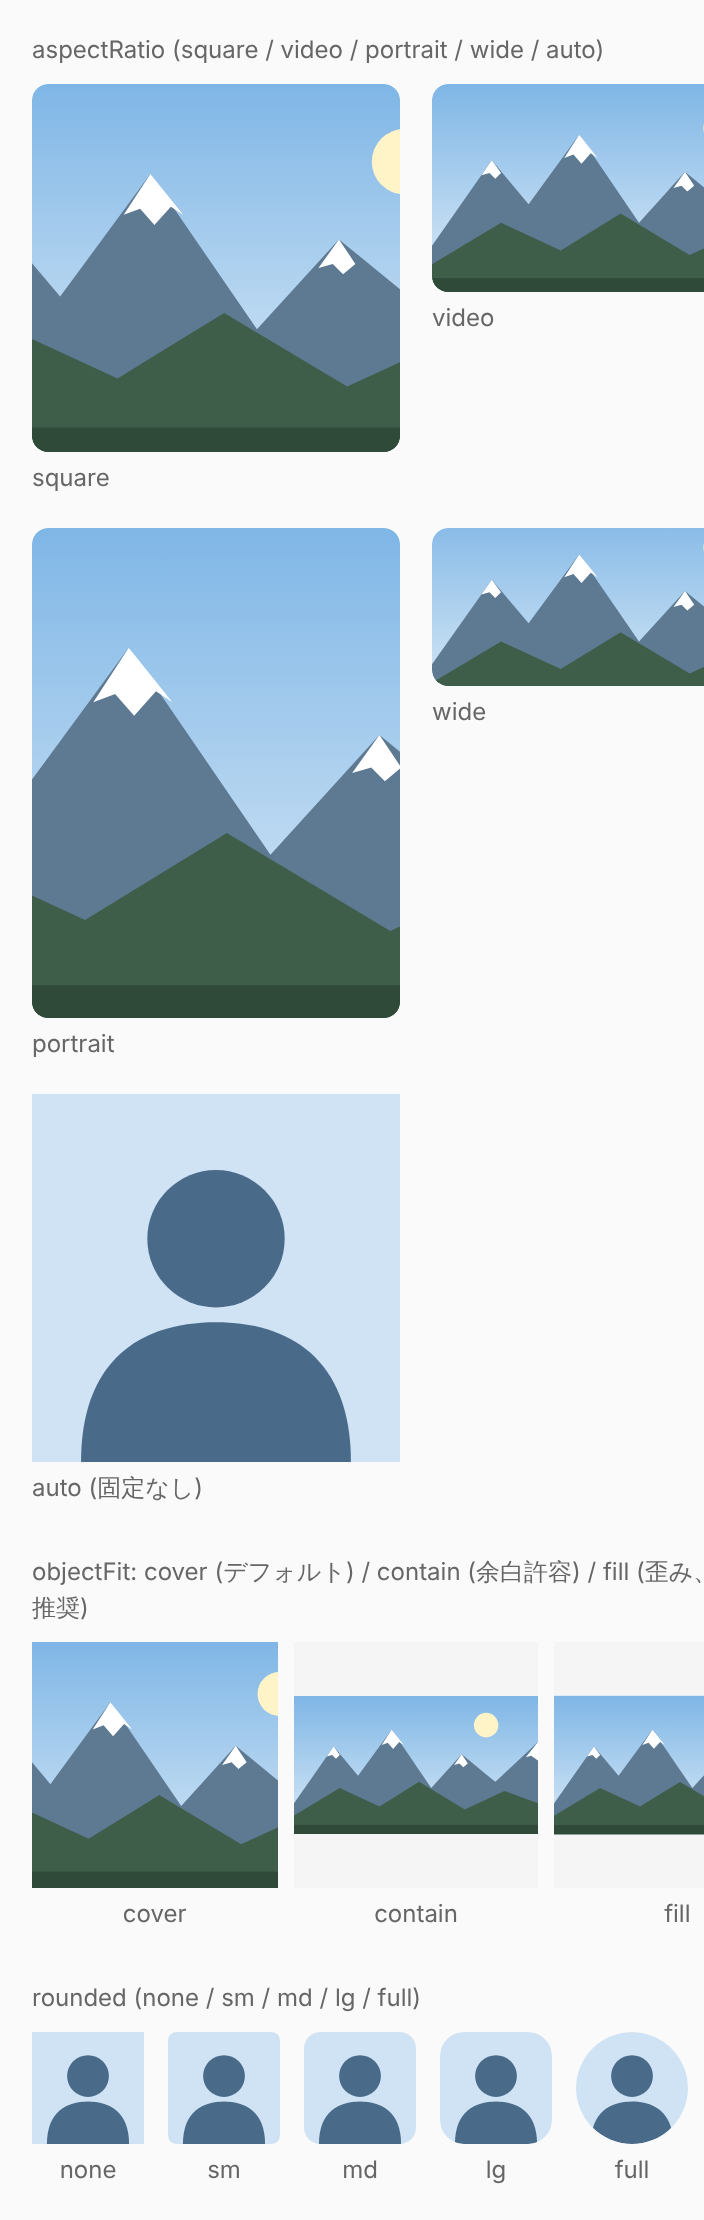
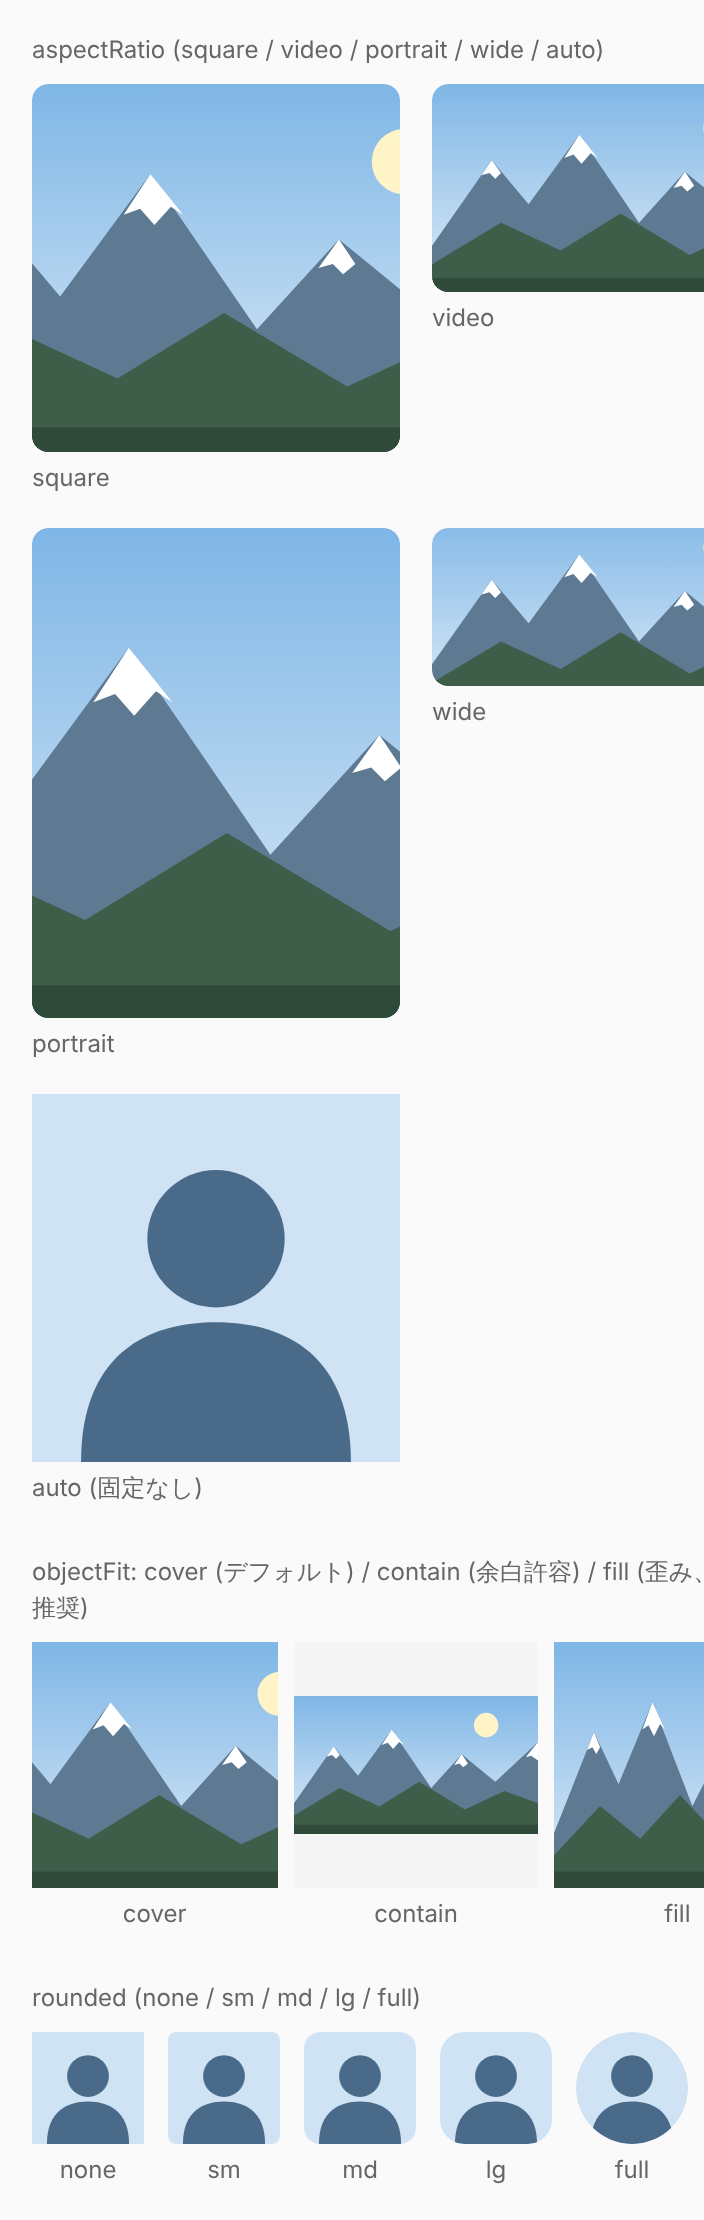
fix(storybook): 風景のサンプル SVG を objectFit="fill" で歪むようにする (#125 F-1)
SVG が自分で縦横比を保つため、Image の Overview で fill が contain と同じに
見えていた。preserveAspectRatio="none" を足し、写真と同じく枠に合わせて伸縮
させる。cover / contain の見た目は変わらない。Image Overview の写真を撮り直し。

Claude-Session: https://claude.ai/code/session_01P7kEUqZhgqkjNQRsoLUiNX

Changed region(s): [[0.7812, 0.7149, 1.0, 0.8703]]

diff --git a/CHANGELOG.md b/CHANGELOG.md
@@ -97,7 +97,7 @@
 
 ### Fixed
 
-- **Image / Avatar の story と guideline が外部の画像 (unsplash / pravatar) を読んでいたのを、同梱の SVG に差し替えた** (#125 F-1): 視覚回帰 (Overview は撮影対象) の結果が外部の都合で揺れうるうえ、外部に出られない環境では画像が読めず、Image は代替表示、Avatar はイニシャルに落ちていた。サンプル画像は自作の SVG (風景 1 枚、人型シルエット 3 色) を `.storybook/samples/` に置き、`@sb-blocks/sampleImages` から読む。人物写真は使わない。読み込み失敗を見せる `BROKEN_IMG` はそのまま。Storybook のみの変更で consumer 影響なし
+- **Image / Avatar の story と guideline が外部の画像 (unsplash / pravatar) を読んでいたのを、同梱の SVG に差し替えた** (#125 F-1): 視覚回帰 (Overview は撮影対象) の結果が外部の都合で揺れうるうえ、外部に出られない環境では画像が読めず、Image は代替表示、Avatar はイニシャルに落ちていた。サンプル画像は自作の SVG (風景 1 枚、人型シルエット 3 色) を `.storybook/samples/` に置き、`@sb-blocks/sampleImages` から読む。人物写真は使わない。風景の SVG は `preserveAspectRatio="none"` にし、写真と同じく Image の `objectFit="fill"` で歪むようにした (SVG が自分で縦横比を保つと fill が contain と同じに見える)。読み込み失敗を見せる `BROKEN_IMG` はそのまま。Storybook のみの変更で consumer 影響なし
 - **一覧・件数・古い手順の記述を今の状態に合わせた** (#125 D / E / F-2、文書のみ): Introduction の件数 (Primitives 17 / Composites 28)、Primitives/Overview に Layout (Stack / Cluster / Center / Section) を追加し、標準ストーリー構造の説明を 3 節 (Playground / Overview / EdgeCases) に。**`Composites/Overview` ページを追加** (28 部品を用途別に一覧)。Center / Stack / Cluster guideline の「Phase 予定」と存在しない `max-w-container-default` / `py-section`、サイドバー並び順のページの無い `Platform`、`.storybook/main.ts` の「States story」を直した。AGENTS.md は §5-1 (7 節 → 3 節)・§5-3 の移行中の注記・§5-5-2・§7・§8-2・§9-4 (Playground と overlay の撮り方) を、全 45 部品が 3 節に移行済みの事実に合わせた。`bg.default` の utility が `bg-background` である理由を Tokens/Color/Semantic に書いた。Introduction と Tokens/Color/Primitive の「brand の色を切り替え」の例が `--color-surface-primary` の 1 行だけで、塗り以外 (薄い面・枠線・文字・フォーカス・ホバー) は teal のまま残ることが読み取れなかったので、brand に関わる semantic 7 つをそろえて上書きする例にした (#125 C-9)。Introduction の依存ルール「Primitive は他のコンポーネントを import しない」を事実に合わせ、「Primitive は他の Primitive を import してよい (Composite は不可)、循環させない」に書き直した (Input・Textarea → Label、Link・Image → Icon)。レビューで見つかった残り (VisuallyHidden は Playground のみという例外、§8-2 の play test は自前実装の部品だけ、FocusRing の「States story」、story 説明・JSDoc の `py-section` / `max-w-container-default`、guideline の「Phase A / B」) も直した。`check:links` が meta より前の `title:` (Accordion の FAQ データ) を拾い、`composites-accordion--guideline` を壊れたリンクと誤判定していたのを直した。story id・token・部品は変えていない。consumer 影響なし
 - **Tokens/Color まわりの古い記述を今の token に合わせた** (#125 C、文書のみ): brand の塗り `surface.primary` は `teal.600` なのに、Tokens/Overview・Tokens/Color・Principles/Semantic Colors・Introduction・AGENTS.md §3-1 / §3-2 / §3-4-3 が `teal.700` / `color.primary.700` / `#006F50` のままだった。特に「brand を変えるには `--color-teal-700` を上書き」の案内は、そのとおりにしても塗りが変わらない (変わるのは文字とフォーカスだけ)。semantic 変数 (`--color-surface-primary`) を上書きする案内に直し、primitive で済ませる場合は参照している 3 段 (50 / 600 / 700) をそろえて上書きすると書いた。ほかに Tokens/Color/Semantic の件数 (Surface 18 / Border 13)・Text の story の表示名・階層の説明 (`default` / `subtle`)、Spinner guideline の Do / Don't の primitive 直書き (`bg-teal-700` → `bg-surface-primary`) を直した。Tokens/Color/Semantic の story は、並び順の配列に無い token も末尾に出すようにした (token を足しても story に出ず気づけなかった)。story id・token の値・部品は変えていない。consumer 影響なし
 - **CI の検査の一覧を `verify` に一本化** (#125 G-2): CI が検査を 1 つずつ並べていて、`verify` に足した検査 (`check:utilities` / `check:preset-deps` / `check:theme-contract`) が CI に入らないままになっていた。CI は `npm run verify` を呼ぶだけにし、検査の一覧は `package.json` の 1 か所にした。「いつ、何が動くか」を README にまとめた。consumer 影響なし
